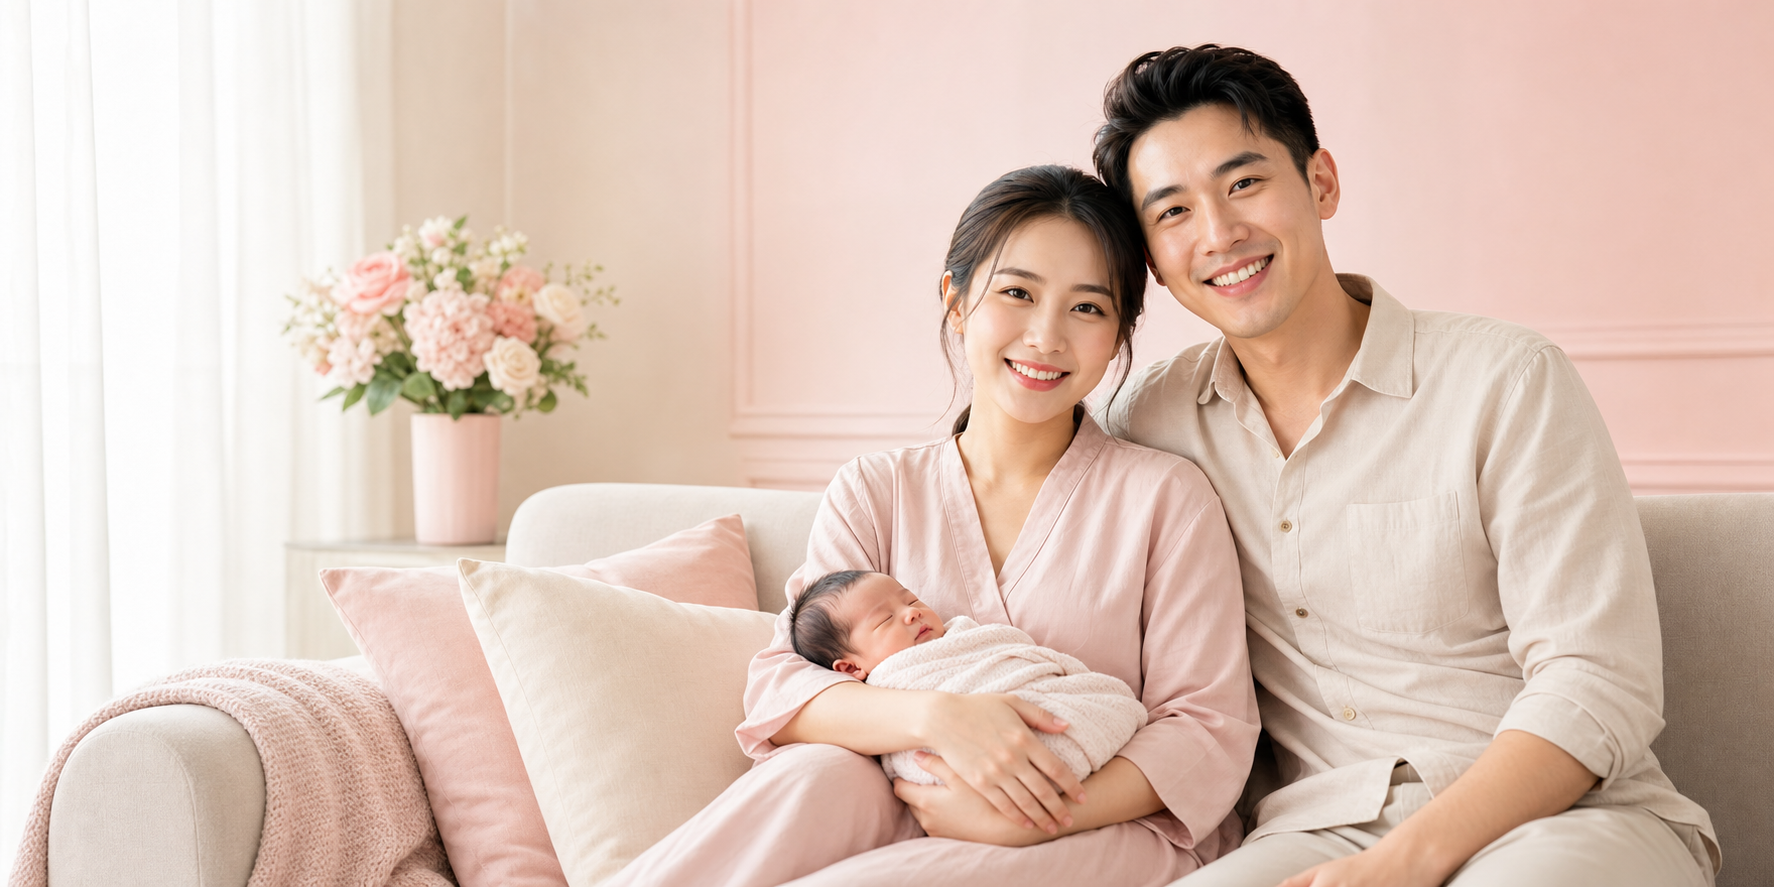
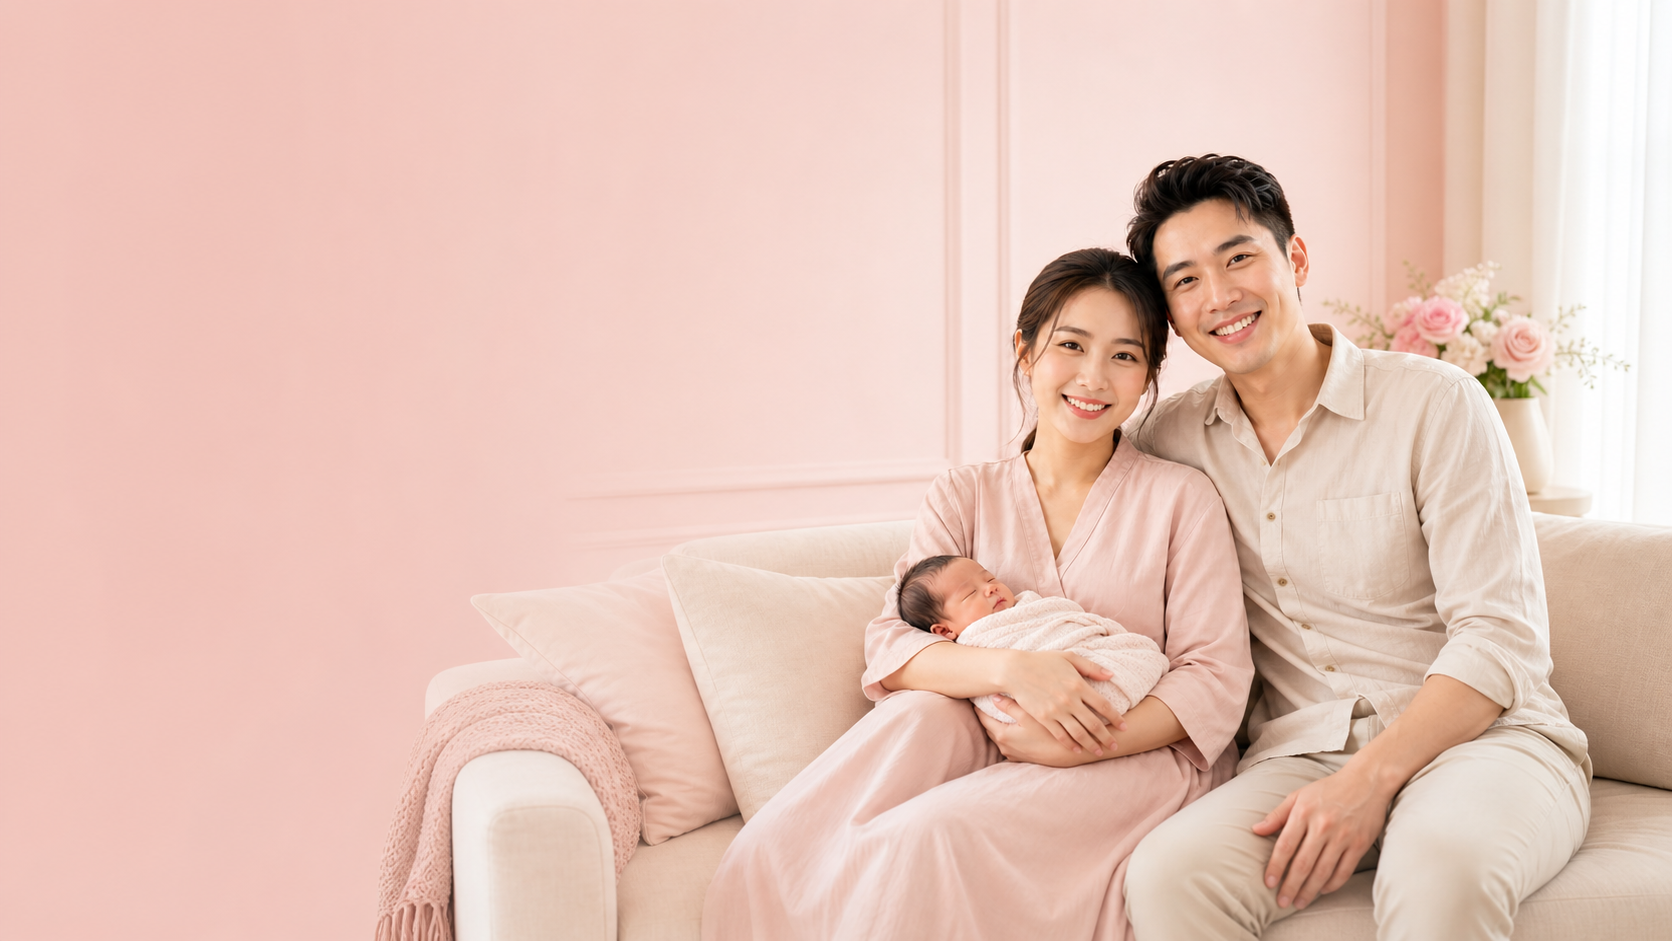
fix: improve qconfine hero layout

diff --git a/public/sample/Qconfine/index.html b/public/sample/Qconfine/index.html
@@ -256,8 +256,7 @@ body::after {
 .hero-right img {
   width:100%; height:100%;
   object-fit:cover;
-  object-position: center 25%;
-  animation: zoomBg 12s ease-in-out infinite alternate;
+  object-position: 78% center;
 }
 .hero-right-overlay {
   position:absolute; inset:0;
@@ -1045,7 +1044,7 @@ body::after {
     <div class="hero-deco-text">QCH</div>
   </div>
   <div class="hero-right">
-    <img src="hero-family-confinement.png" alt="优质陪月中心温馨家庭宣传图">
+    <img src="hero-family-confinement.png?v=2" alt="优质陪月中心温馨家庭宣传图">
     <div class="hero-right-overlay"></div>
     <div class="hero-float-card">
       <span class="icon">🏆</span>
